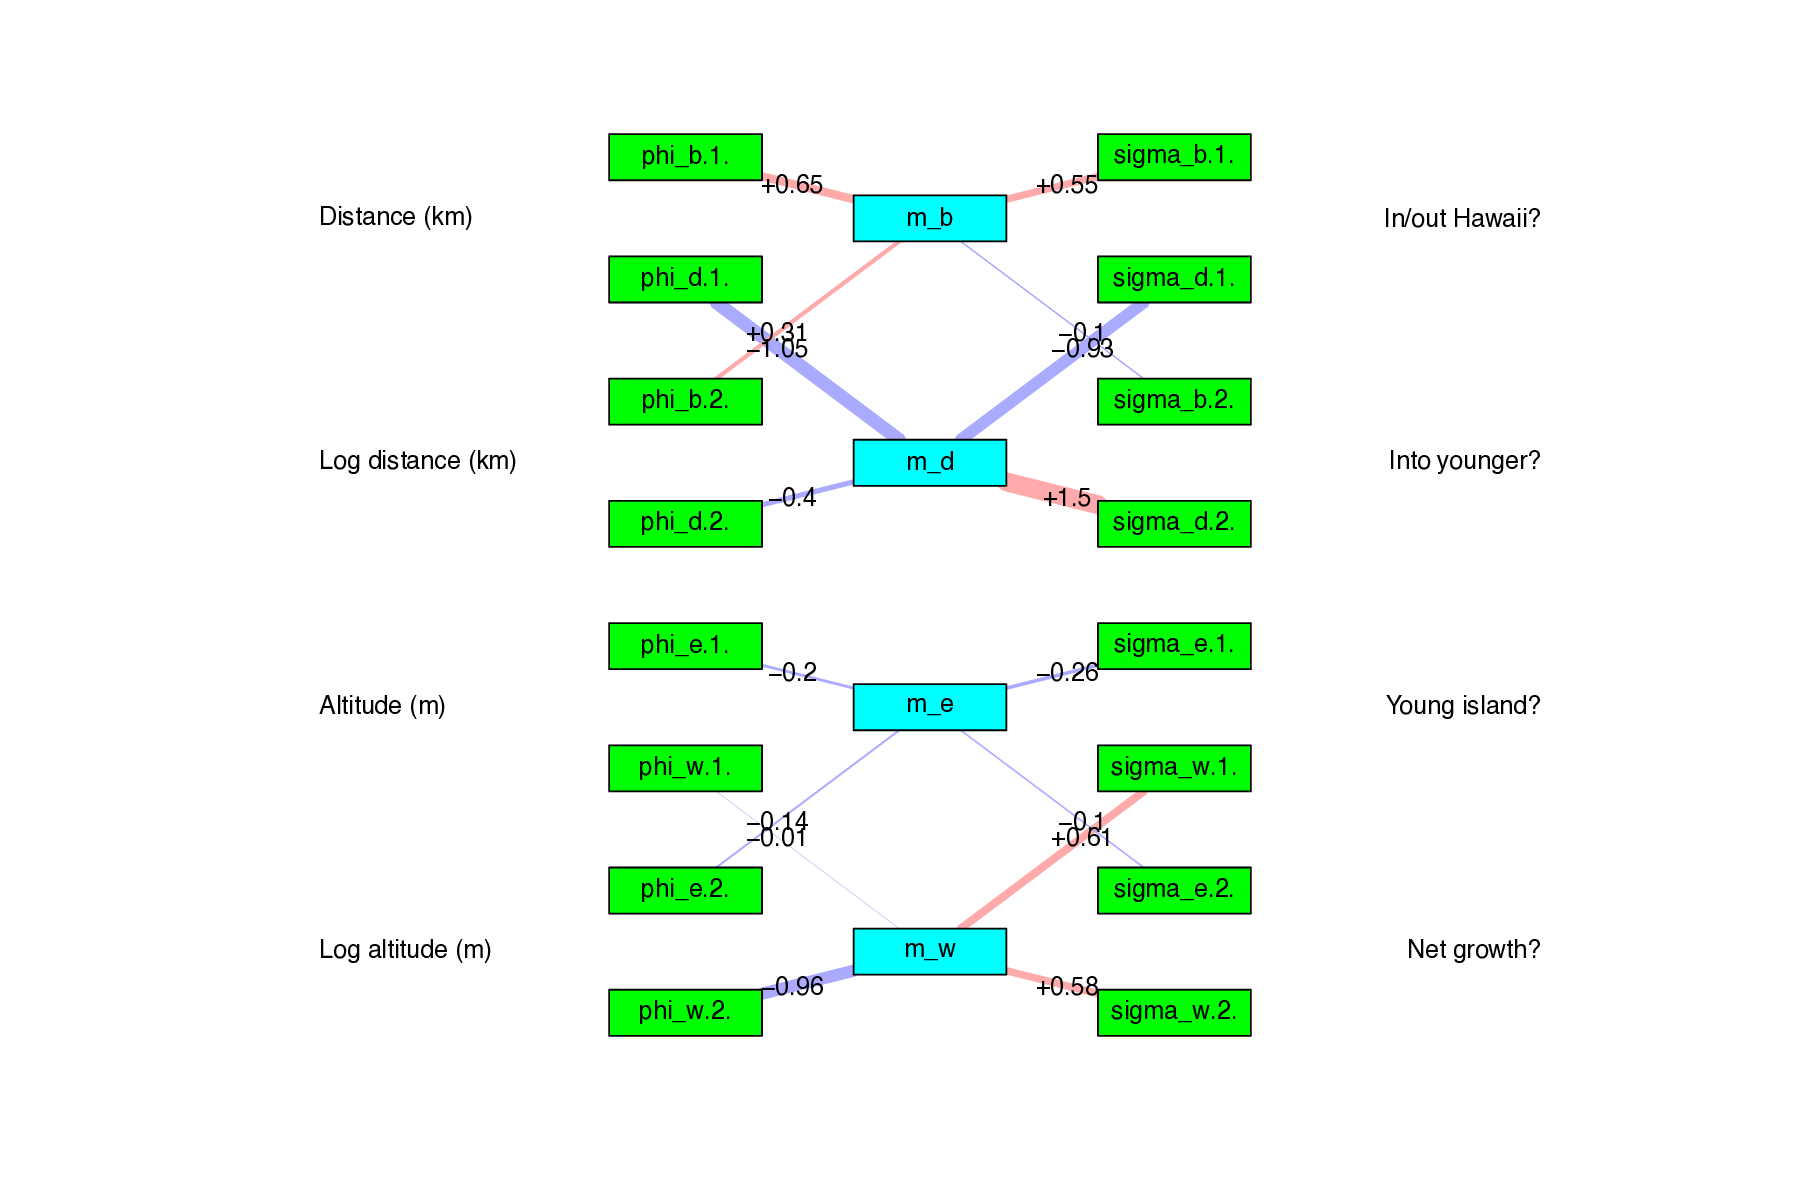
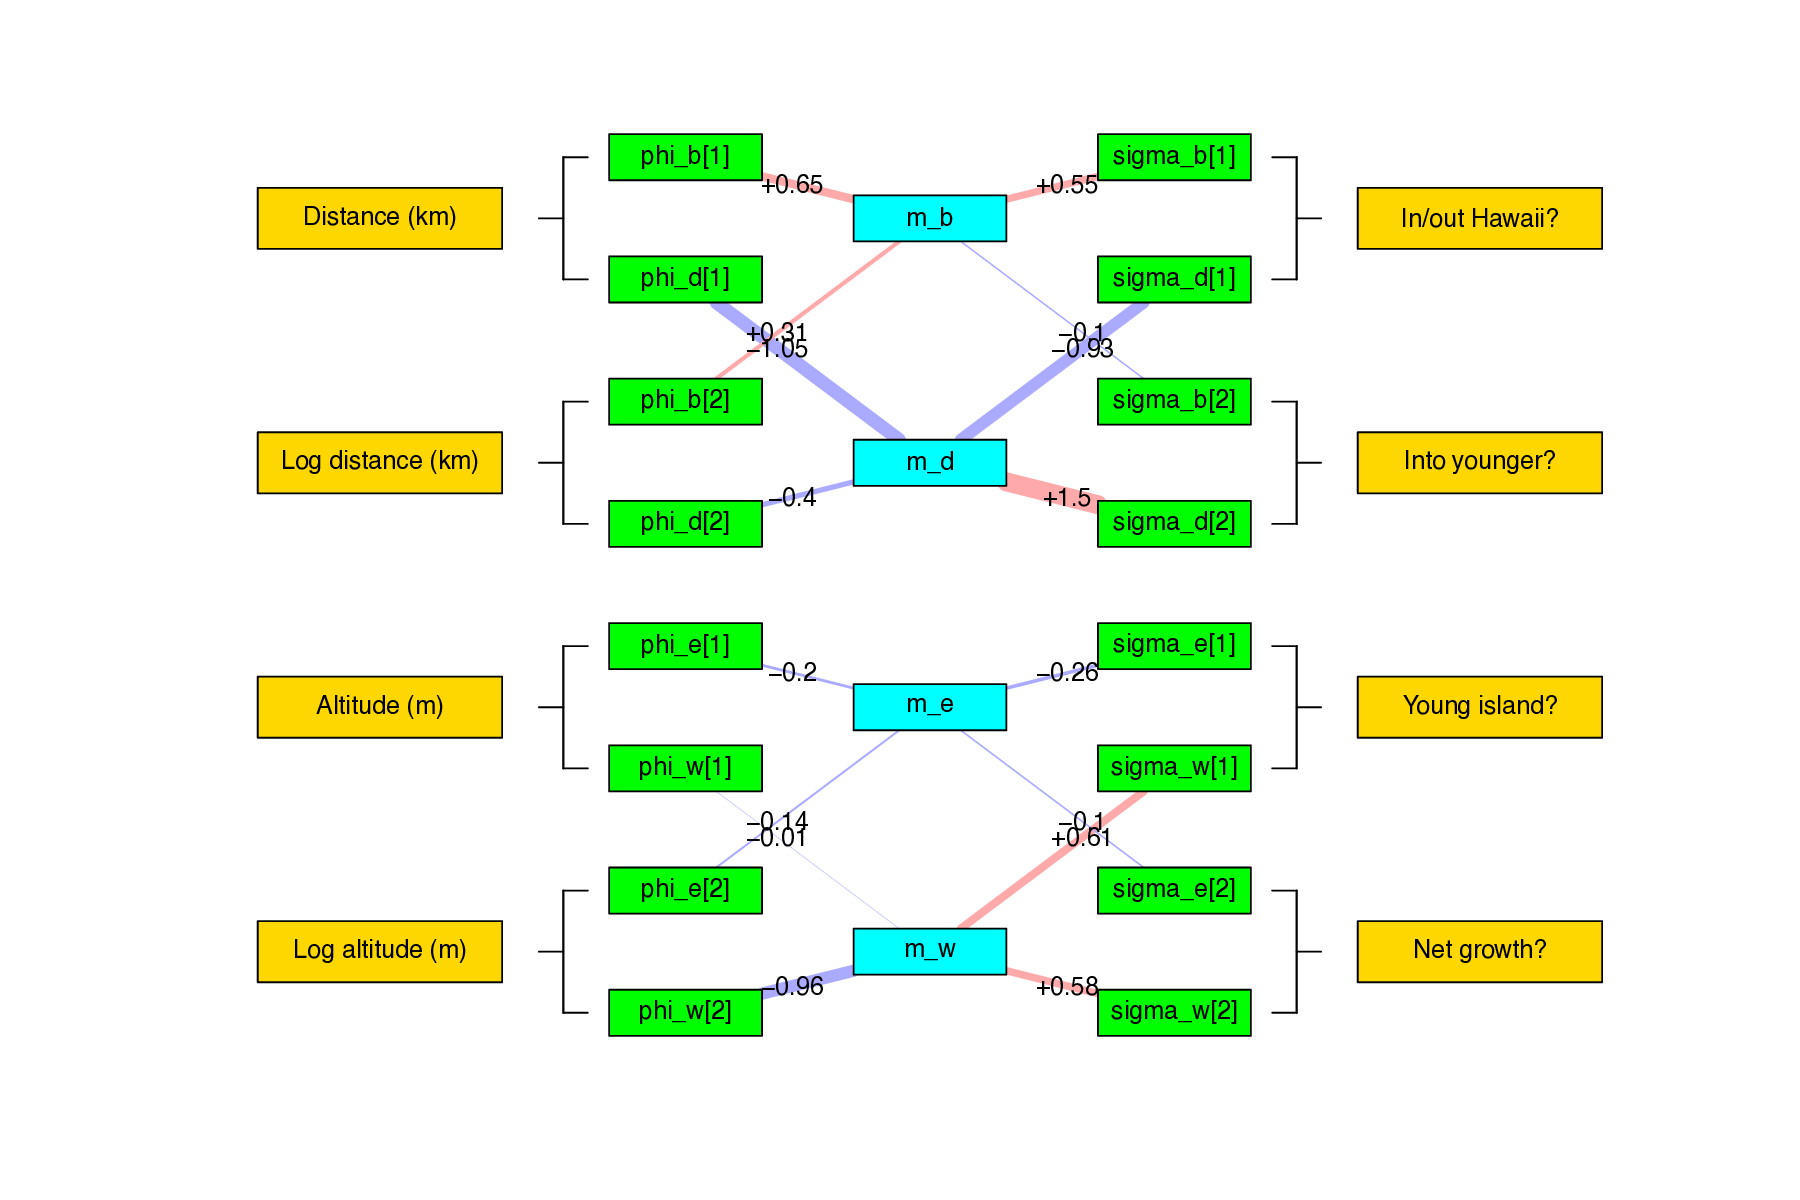
refresh timefig simple figures

diff --git a/tutorials/multifig/index.md b/tutorials/multifig/index.md
@@ -645,7 +645,7 @@ Posterior estimates for parameters related to the dispersal process.
 
 From top to bottom, the first figure shows the base dispersal rate, $\rho_d$, that would apply if all regions were completely identical. The second figure shows quantitative feature effect parameters, $\phi^{(k)}_d$, wherein the parameter for Distance is negative, meaning dispersal rates *decrease* with distance. The third figure shows that models using distance as an explanatory factor to shape dispersal rates have higher reversible jump probabilities, whereas including or excluding log-distance has no major impact on model fit. The fourth figure shows categorical feature effect parameters, $\sigma^{(k)}_d$, for which dispersal into younger regions tend to have higher dispersal rates (positive) and dispersal into or out of the Hawaiian islands is penalized (negative). In the last figure, models with or without these categorical features tend to have similar fit, though models that favor dispersal into younger islands are roughly three times as probable as those that do not.
 
-Lastly, we generate figures for region-specific biogeographic rates. Note, this code is intended for the time-heterogeneous FIG models that are introduced in the next tutorial. This tutorial can be thought as a special case of the time-heterogeneous FIG model where time is constant. Because of this, the current scripts require we that we pass a "dummy" file showing to generate the figure. This is a bit hacky and will be fixed soon. The code for this is:
+Lastly, we generate figures for region-specific biogeographic rates. Note, this code is intended for the time-heterogeneous FIG models that are introduced in the next tutorial. This tutorial can be thought as a special case of the time-heterogeneous FIG model where time is constant. Because of this, the current scripts require we that we pass a "dummy" age summary file showing to generate the figure. The code for this is:
 
 ```
 # make region rate plots
@@ -679,6 +679,6 @@ Rscript ./plot/plot_feature_rate_network.R ./output/multifig.model.txt ./data/ha
 {% figure rates_times %}
 <img src="figures/plot_feature_rate_network.png" width="80%">
 {% figcaption %}
-Network diagram displaying the relationship between regional features, feature effect parameters ($\phi$ and $\sigma$ in green), and rate modifier functions ($m$ in cyan).)
+Network diagram displaying the relationships between regional features (gold), feature effect parameters ($\phi$ and $\sigma$ in green), and rate modifier functions ($m$ in cyan). Edges colors indicate positive (blue) versus negative (red) relationships and widths indicate weak (thin) versus (strong) interactions.
 {% endfigcaption %}
 {% endfigure %}

diff --git a/tutorials/timefig_dating/index.md b/tutorials/timefig_dating/index.md
@@ -971,6 +971,6 @@ Rscript ./plot/plot_feature_rate_network.R ./output/divtime_timefig.model.txt ./
 {% figure rates_times %}
 <img src="figures/plot_feature_rate_network.png" width="80%">
 {% figcaption %}
-Network diagram displaying the relationship between regional features, feature effect parameters ($\phi$ and $\sigma$ in green), and rate modifier functions ($m$ in cyan).)
+Network diagram displaying the relationships between regional features (gold), feature effect parameters ($\phi$ and $\sigma$ in green), and rate modifier functions ($m$ in cyan). Edges colors indicate positive (blue) versus negative (red) relationships and widths indicate weak (thin) versus (strong) interactions.
 {% endfigcaption %}
 {% endfigure %}

diff --git a/tutorials/timefig_simple/index.md b/tutorials/timefig_simple/index.md
@@ -707,6 +707,6 @@ Rscript ./plot/plot_feature_rate_network.R ./output/simple_timefig.model.txt ./d
 {% figure rates_times %}
 <img src="figures/plot_feature_rate_network.png" width="80%">
 {% figcaption %}
-Network diagram displaying the relationship between regional features, feature effect parameters ($\phi$ and $\sigma$ in green), and rate modifier functions ($m$ in cyan).)
+Network diagram displaying the relationships between regional features (gold), feature effect parameters ($\phi$ and $\sigma$ in green), and rate modifier functions ($m$ in cyan). Edges colors indicate positive (blue) versus negative (red) relationships and widths indicate weak (thin) versus (strong) interactions.
 {% endfigcaption %}
 {% endfigure %}
